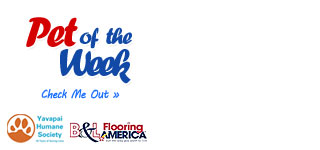
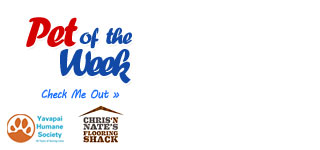
updated potw sponsor

Changed region(s): [[0.2188, 0.6933, 0.4688, 0.96]]

diff --git a/web/css/styles.css b/web/css/styles.css
@@ -169,6 +169,9 @@ div.notice {
 .cinzel{
     font-family: 'Cinzel', Arial, sans-serif;
 }
+.arial{
+    font-family: Arial, sans-serif;
+}
 .blue{
     color:#003399;
 }

diff --git a/src/FunOldies/MainBundle/Controller/SplashController.php b/src/FunOldies/MainBundle/Controller/SplashController.php
@@ -1,0 +1,27 @@
+<?php
+
+namespace FunOldies\MainBundle\Controller;
+
+use Symfony\Bundle\FrameworkBundle\Controller\Controller;
+
+class SplashController extends Controller
+{
+    public function splashAction($splash)
+    {
+        switch($splash){
+            // COULD RETURN LIST OF SPLASH PAGES
+            case 'default' :
+                return $this->render('FunOldiesMainBundle:Splash:default.html.twig', array(
+                    'splash' => $splash
+                ));
+
+            // TEACHERS APPRECIATION NIGHT
+            case 'teachers-appreciation-night' :
+                return $this->render('FunOldiesMainBundle:Splash:teachersnight.html.twig', array(
+                    'splash' => $splash
+                ));                
+        }
+    }
+    
+}
+?>
